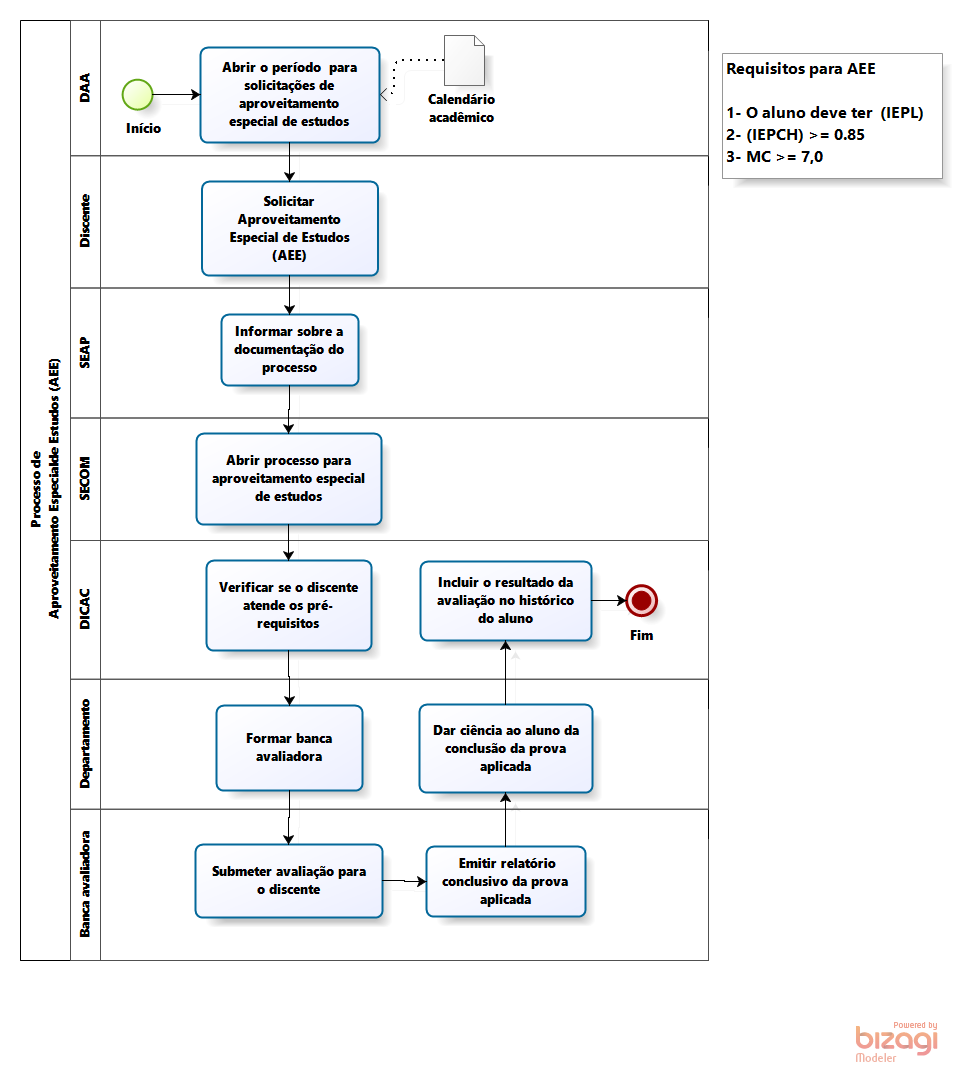
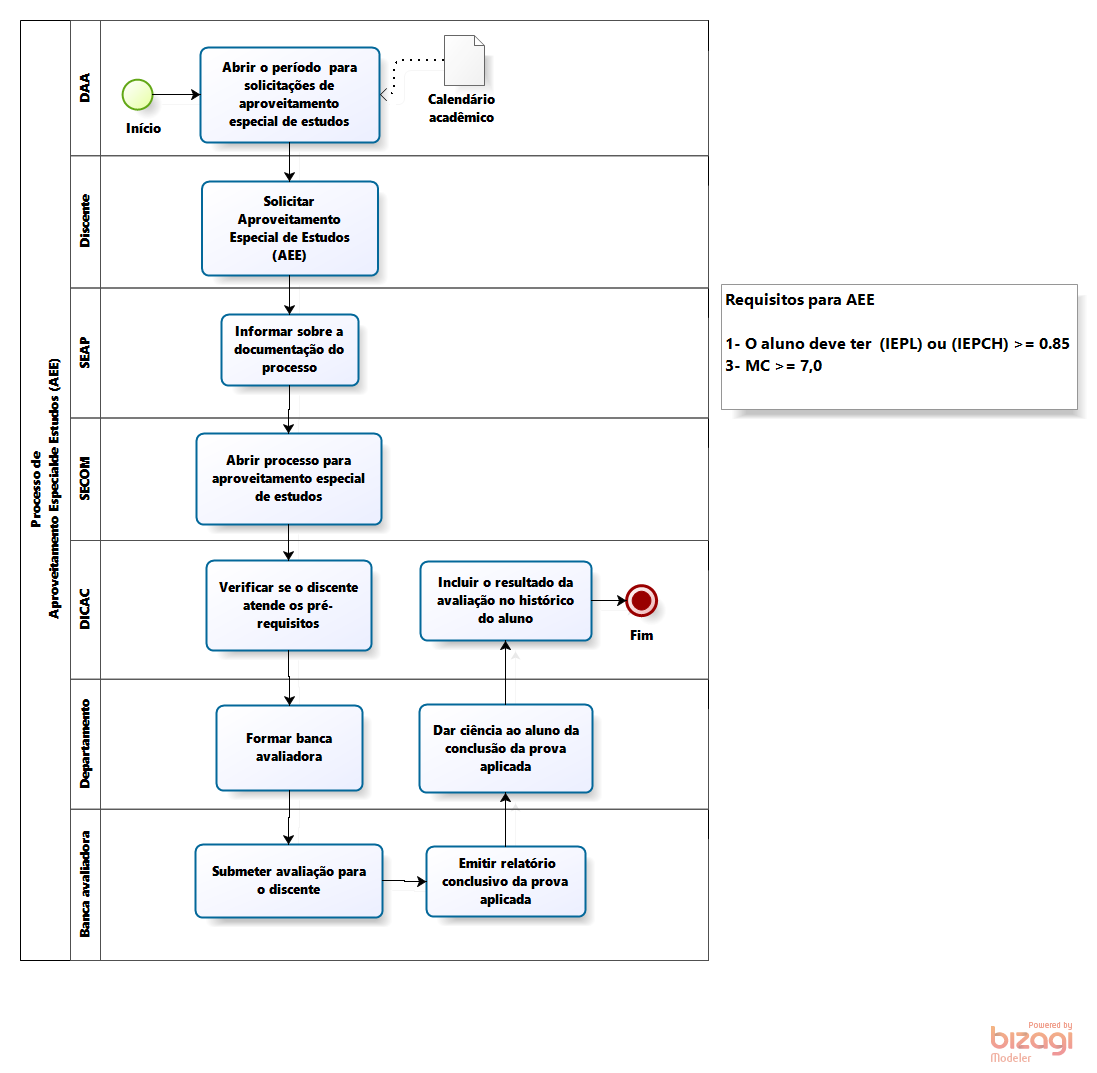
publicação de AEE modificadas

diff --git a/Publicações do Padrão Bizagi/Aproveitamento Especial de Estudos (AEE)/libs/js/json/configuration.json.js b/Publicações do Padrão Bizagi/Aproveitamento Especial de Estudos (AEE)/libs/js/json/configuration.json.js
@@ -1,1 +1,1 @@
-Bizagi.AppModel = {"personalized":false,"userLogoName":"\\libs\\img\\biz-ex-logo.png","bizagiUrl":"http://www.bizagi.com","productName":"Bizagi Process Modeler","modelName":"Aproveitamento Especial de Estudos (AEE)","publishDate":"29/02/2020 13:38:24","pages":[{"id":"125e832a-3d17-423e-bb57-0111de79cfe2","name":"Processo de  Aproveitamento Especial de Estudos (AEE)","version":"1.0","author":"Emeson","image":"files\\diagrams\\Processo_de__Aproveitamento_Especial_de_Estudos_AEE.png","isSubprocessPage":false,"elements":[{"id":"d7220e4f-3f43-4527-ae42-fc518daa5a07","name":"Processo de\n Aproveitamento Especialde Estudos (AEE)","elementImage":"files\\bpmnElements\\Participant.png","imageBounds":{"points":[{"x":20.0,"y":20.0}],"radius":0.0,"height":940.0,"width":50.0,"shape":"rect"},"elementType":"Participant","pageElements":[{"id":"61fa1f97-9267-444e-af1a-dcb147c0df2b","name":"Calendário acadêmico","elementImage":"files\\bpmnElements\\DataObject.png","imageBounds":{"points":[{"x":444.0,"y":35.0}],"radius":0.0,"height":50.0,"width":40.0,"shape":"rect"},"elementType":"DataObject","properties":[{"name":"Estado","type":"text"}]},{"id":"e9d7452c-cdda-4aba-b6c0-73e78aa169ef","name":"Início","elementImage":"files\\bpmnElements\\NoneStart.png","imageBounds":{"points":[{"x":122.0,"y":79.0}],"radius":15.0,"height":30.0,"width":30.0,"shape":"circle"},"elementType":"NoneStart"},{"id":"f385f1ff-2a86-4a48-9114-9d9e4ccfe905","name":"Solicitar Aproveitamento Especial de Estudos (AEE)","elementImage":"files\\bpmnElements\\AbstractTask.png","imageBounds":{"points":[{"x":201.5,"y":181.0}],"radius":0.0,"height":94.0,"width":176.0,"shape":"rect"},"elementType":"AbstractTask","properties":[]},{"id":"ba57b8b1-8c9e-4a0c-83d6-e49375312a78","name":"Abrir processo para aproveitamento especial de estudos","elementImage":"files\\bpmnElements\\AbstractTask.png","imageBounds":{"points":[{"x":196.0,"y":433.0}],"radius":0.0,"height":91.0,"width":185.0,"shape":"rect"},"elementType":"AbstractTask","properties":[]},{"id":"a8163bc1-293b-420e-8b01-7e1a551eac00","name":"Verificar se o discente atende os pré-requisitos","elementImage":"files\\bpmnElements\\AbstractTask.png","imageBounds":{"points":[{"x":206.0,"y":560.0}],"radius":0.0,"height":90.0,"width":165.0,"shape":"rect"},"elementType":"AbstractTask","properties":[]},{"id":"fb591a23-4eb8-4b19-8bdb-dfb80334e690","name":"Formar banca avaliadora","elementImage":"files\\bpmnElements\\AbstractTask.png","imageBounds":{"points":[{"x":216.0,"y":705.0}],"radius":0.0,"height":85.0,"width":146.0,"shape":"rect"},"elementType":"AbstractTask","properties":[]},{"id":"b2c32a35-ff1c-434b-9eb8-6c43d189ad4a","name":"Submeter avaliação para o discente","elementImage":"files\\bpmnElements\\AbstractTask.png","imageBounds":{"points":[{"x":195.0,"y":844.0}],"radius":0.0,"height":73.0,"width":187.0,"shape":"rect"},"elementType":"AbstractTask","properties":[]},{"id":"6bc7b649-8dc4-4257-a06c-83d3b10a0ce6","name":"Dar ciência ao aluno da conclusão da prova aplicada","elementImage":"files\\bpmnElements\\AbstractTask.png","imageBounds":{"points":[{"x":419.0,"y":704.0}],"radius":0.0,"height":88.0,"width":173.0,"shape":"rect"},"elementType":"AbstractTask","properties":[]},{"id":"ba35f286-3df1-4b9f-a7bf-5dbe3dae871a","name":"Incluir o resultado da avaliação no histórico do aluno","elementImage":"files\\bpmnElements\\AbstractTask.png","imageBounds":{"points":[{"x":420.0,"y":561.0}],"radius":0.0,"height":79.0,"width":171.0,"shape":"rect"},"elementType":"AbstractTask","properties":[]},{"id":"83f2db26-2773-43f6-b2bb-94d589b303da","name":"Fim","elementImage":"files\\bpmnElements\\TerminateEnd.png","imageBounds":{"points":[{"x":626.0,"y":585.0}],"radius":15.0,"height":30.0,"width":30.0,"shape":"circle"},"elementType":"TerminateEnd","properties":[]},{"id":"5140a120-ac12-45e5-a2d2-828e4487ddb5","name":"Abrir o período  para solicitações de  aproveitamento  especial de estudos","elementImage":"files\\bpmnElements\\AbstractTask.png","imageBounds":{"points":[{"x":200.0,"y":47.0}],"radius":0.0,"height":95.0,"width":179.0,"shape":"rect"},"elementType":"AbstractTask","properties":[]},{"id":"c7a2d8f7-df18-4e64-84b1-d8cea053bb67","name":" Emitir relatório conclusivo da prova aplicada","elementImage":"files\\bpmnElements\\AbstractTask.png","imageBounds":{"points":[{"x":426.0,"y":846.0}],"radius":0.0,"height":70.0,"width":159.0,"shape":"rect"},"elementType":"AbstractTask","properties":[]},{"id":"7c06772e-dd6b-4ee6-b49c-a9913ff6b20e","name":"Informar sobre a documentação do processo ","elementImage":"files\\bpmnElements\\AbstractTask.png","imageBounds":{"points":[{"x":221.0,"y":314.0}],"radius":0.0,"height":71.0,"width":137.0,"shape":"rect"},"elementType":"AbstractTask","properties":[]},{"id":"addd9075-bd68-48a4-bfc6-fd6ff8379f02","name":"DAA","elementImage":"files\\bpmnElements\\Lane.png","imageBounds":{"points":[{"x":70.0,"y":20.0}],"radius":0.0,"height":135.2,"width":30.0,"shape":"rect"},"elementType":"Lane"},{"id":"ef081c37-c4c1-45d0-881b-e2a4f498ee21","name":"Discente","elementImage":"files\\bpmnElements\\Lane.png","imageBounds":{"points":[{"x":70.0,"y":155.2}],"radius":0.0,"height":132.2,"width":30.0,"shape":"rect"},"elementType":"Lane"},{"id":"69fd035d-ef0f-41aa-b6c2-025573f3ac7a","name":"SEAP","elementImage":"files\\bpmnElements\\Lane.png","imageBounds":{"points":[{"x":70.0,"y":287.4}],"radius":0.0,"height":130.0,"width":30.0,"shape":"rect"},"elementType":"Lane"},{"id":"55a896e1-e415-490d-874c-1565ed5a9eb5","name":"SECOM","elementImage":"files\\bpmnElements\\Lane.png","imageBounds":{"points":[{"x":70.0,"y":417.4}],"radius":0.0,"height":122.5,"width":30.0,"shape":"rect"},"elementType":"Lane"},{"id":"5c18ace9-82aa-4ba0-a0e2-5297b4fba1de","name":"DICAC","elementImage":"files\\bpmnElements\\Lane.png","imageBounds":{"points":[{"x":70.0,"y":539.9}],"radius":0.0,"height":138.7,"width":30.0,"shape":"rect"},"elementType":"Lane"},{"id":"6e2c61ef-821c-4aea-afcc-36b300a025f5","name":"Departamento","elementImage":"files\\bpmnElements\\Lane.png","imageBounds":{"points":[{"x":70.0,"y":678.600037}],"radius":0.0,"height":130.0,"width":30.0,"shape":"rect"},"elementType":"Lane"},{"id":"dfc61933-b509-4126-a6c7-aa9738823f7e","name":"Banca avaliadora","elementImage":"files\\bpmnElements\\Lane.png","imageBounds":{"points":[{"x":70.0,"y":808.600037}],"radius":0.0,"height":151.399963,"width":30.0,"shape":"rect"},"elementType":"Lane"}]}]}],"texts":{"tableOfContents":"Índice","pageNumber":"Página","pageNumberLabelOf":"de","version":"Versão","author":"Autor","description":"Descrição","mainPool":"Processo principal","mainPoolDescription":"Processo principal Descrição","processDiagrams":"Processar os Diagramas","processElements":"Elementos do processo","elements":"Elementos do processo","defaultElementName":"Elemento","performers":"Executantes","connectors":"Conectores","connector":"Conector","home":"Principal","search":"Pesquisar","goToParentProcess":"<< Ir para Matriz","visitBizagi":"Visite bizagi.com","contains":"Contém {0} subprocessos","showAll":"Show all","fullScreen":"Tela inteira","zoomIn":"Ampliar","zoomOut":"Reduzir","close":"Fechar","menu":"Menu: ","errorPage":"Erro ao visualizar a página","process":"Proceso","subProcess":"Subprocessos publicados","contain":"Contém","checkAttributes":"Ver atributos","checkOverview":"Ver resumo","unavailableResource":"O recurso não está disponível","localResource":"O recurso pode ser acessado localmente","performer":"Executor","linktoimage":"Link para a  imagem","presentationAction":"Ações de apresentação","searchGlobal":"Busca todos","searchLocal":"Busca neste processo","searchResults":"Nenhum resultado encontrado","titlePage":"Start","emptyElement":"Este elemento ainda não foi documentado","unsupported":"Seu navegador não suporta conteúdo exibido por esta página. <br> Recomendamos que você atualizar o seu navegador.","details":"Detalhes","expand":"Expandir","mainPoolProperties":"Propriedades do Processo principal","cannotVisualize":"The page cannot be displayed","resourceNotFound":"The requested resource was not found:"},"searchMap":[{"containerId":"125e832a-3d17-423e-bb57-0111de79cfe2","containerName":"Processo de  Aproveitamento Especial de Estudos (AEE)","isSubprocess":false,"elements":[{"id":"0c2dd4b9-0787-4963-8cd6-24b4f51d7496"},{"id":"d7220e4f-3f43-4527-ae42-fc518daa5a07","value":"Processo de\n Aproveitamento Especialde Estudos (AEE)"},{"id":"addd9075-bd68-48a4-bfc6-fd6ff8379f02","value":"DAA"},{"id":"ef081c37-c4c1-45d0-881b-e2a4f498ee21","value":"Discente"},{"id":"69fd035d-ef0f-41aa-b6c2-025573f3ac7a","value":"SEAP"},{"id":"55a896e1-e415-490d-874c-1565ed5a9eb5","value":"SECOM"},{"id":"5c18ace9-82aa-4ba0-a0e2-5297b4fba1de","value":"DICAC"},{"id":"6e2c61ef-821c-4aea-afcc-36b300a025f5","value":"Departamento"},{"id":"dfc61933-b509-4126-a6c7-aa9738823f7e","value":"Banca avaliadora"},{"id":"61fa1f97-9267-444e-af1a-dcb147c0df2b","value":"Calendário acadêmico"},{"id":"e9d7452c-cdda-4aba-b6c0-73e78aa169ef","value":"Início"},{"id":"f385f1ff-2a86-4a48-9114-9d9e4ccfe905","value":"Solicitar Aproveitamento Especial de Estudos (AEE)"},{"id":"ba57b8b1-8c9e-4a0c-83d6-e49375312a78","value":"Abrir processo para aproveitamento especial de estudos"},{"id":"a8163bc1-293b-420e-8b01-7e1a551eac00","value":"Verificar se o discente atende os pré-requisitos"},{"id":"fb591a23-4eb8-4b19-8bdb-dfb80334e690","value":"Formar banca avaliadora"},{"id":"b2c32a35-ff1c-434b-9eb8-6c43d189ad4a","value":"Submeter avaliação para o discente"},{"id":"6bc7b649-8dc4-4257-a06c-83d3b10a0ce6","value":"Dar ciência ao aluno da conclusão da prova aplicada"},{"id":"ba35f286-3df1-4b9f-a7bf-5dbe3dae871a","value":"Incluir o resultado da avaliação no histórico do aluno"},{"id":"83f2db26-2773-43f6-b2bb-94d589b303da","value":"Fim"},{"id":"5140a120-ac12-45e5-a2d2-828e4487ddb5","value":"Abrir o período  para solicitações de  aproveitamento  especial de estudos"},{"id":"c7a2d8f7-df18-4e64-84b1-d8cea053bb67","value":" Emitir relatório conclusivo da prova aplicada"},{"id":"7c06772e-dd6b-4ee6-b49c-a9913ff6b20e","value":"Informar sobre a documentação do processo "},{"id":"ce34dabc-2edd-4c15-8669-3e58eef2d4e6"}]}]}
+Bizagi.AppModel = {"personalized":false,"userLogoName":"\\libs\\img\\biz-ex-logo.png","bizagiUrl":"http://www.bizagi.com","productName":"Bizagi Process Modeler","modelName":"Aproveitamento Especial de Estudos (AEE)","publishDate":"26/03/2020 17:34:02","pages":[{"id":"125e832a-3d17-423e-bb57-0111de79cfe2","name":"Processo de  Aproveitamento Especial de Estudos (AEE)","version":"1.0","author":"Emeson","image":"files\\diagrams\\Processo_de__Aproveitamento_Especial_de_Estudos_AEE.png","isSubprocessPage":false,"elements":[{"id":"d7220e4f-3f43-4527-ae42-fc518daa5a07","name":"Processo de\n Aproveitamento Especialde Estudos (AEE)","elementImage":"files\\bpmnElements\\Participant.png","imageBounds":{"points":[{"x":20.0,"y":20.0}],"radius":0.0,"height":940.0,"width":50.0,"shape":"rect"},"elementType":"Participant","pageElements":[{"id":"61fa1f97-9267-444e-af1a-dcb147c0df2b","name":"Calendário acadêmico","elementImage":"files\\bpmnElements\\DataObject.png","imageBounds":{"points":[{"x":444.0,"y":35.0}],"radius":0.0,"height":50.0,"width":40.0,"shape":"rect"},"elementType":"DataObject","properties":[{"name":"Estado","type":"text"}]},{"id":"e9d7452c-cdda-4aba-b6c0-73e78aa169ef","name":"Início","elementImage":"files\\bpmnElements\\NoneStart.png","imageBounds":{"points":[{"x":122.0,"y":79.0}],"radius":15.0,"height":30.0,"width":30.0,"shape":"circle"},"elementType":"NoneStart"},{"id":"f385f1ff-2a86-4a48-9114-9d9e4ccfe905","name":"Solicitar Aproveitamento Especial de Estudos (AEE)","elementImage":"files\\bpmnElements\\AbstractTask.png","imageBounds":{"points":[{"x":201.5,"y":181.0}],"radius":0.0,"height":94.0,"width":176.0,"shape":"rect"},"elementType":"AbstractTask","properties":[]},{"id":"ba57b8b1-8c9e-4a0c-83d6-e49375312a78","name":"Abrir processo para aproveitamento especial de estudos","elementImage":"files\\bpmnElements\\AbstractTask.png","imageBounds":{"points":[{"x":196.0,"y":433.0}],"radius":0.0,"height":91.0,"width":185.0,"shape":"rect"},"elementType":"AbstractTask","properties":[]},{"id":"a8163bc1-293b-420e-8b01-7e1a551eac00","name":"Verificar se o discente atende os pré-requisitos","elementImage":"files\\bpmnElements\\AbstractTask.png","imageBounds":{"points":[{"x":206.0,"y":560.0}],"radius":0.0,"height":90.0,"width":165.0,"shape":"rect"},"elementType":"AbstractTask","properties":[]},{"id":"fb591a23-4eb8-4b19-8bdb-dfb80334e690","name":"Formar banca avaliadora","elementImage":"files\\bpmnElements\\AbstractTask.png","imageBounds":{"points":[{"x":216.0,"y":705.0}],"radius":0.0,"height":85.0,"width":146.0,"shape":"rect"},"elementType":"AbstractTask","properties":[]},{"id":"b2c32a35-ff1c-434b-9eb8-6c43d189ad4a","name":"Submeter avaliação para o discente","elementImage":"files\\bpmnElements\\AbstractTask.png","imageBounds":{"points":[{"x":195.0,"y":844.0}],"radius":0.0,"height":73.0,"width":187.0,"shape":"rect"},"elementType":"AbstractTask","properties":[]},{"id":"6bc7b649-8dc4-4257-a06c-83d3b10a0ce6","name":"Dar ciência ao aluno da conclusão da prova aplicada","elementImage":"files\\bpmnElements\\AbstractTask.png","imageBounds":{"points":[{"x":419.0,"y":704.0}],"radius":0.0,"height":88.0,"width":173.0,"shape":"rect"},"elementType":"AbstractTask","properties":[]},{"id":"ba35f286-3df1-4b9f-a7bf-5dbe3dae871a","name":"Incluir o resultado da avaliação no histórico do aluno","elementImage":"files\\bpmnElements\\AbstractTask.png","imageBounds":{"points":[{"x":420.0,"y":561.0}],"radius":0.0,"height":79.0,"width":171.0,"shape":"rect"},"elementType":"AbstractTask","properties":[]},{"id":"83f2db26-2773-43f6-b2bb-94d589b303da","name":"Fim","elementImage":"files\\bpmnElements\\TerminateEnd.png","imageBounds":{"points":[{"x":626.0,"y":585.0}],"radius":15.0,"height":30.0,"width":30.0,"shape":"circle"},"elementType":"TerminateEnd","properties":[]},{"id":"5140a120-ac12-45e5-a2d2-828e4487ddb5","name":"Abrir o período  para solicitações de  aproveitamento  especial de estudos","elementImage":"files\\bpmnElements\\AbstractTask.png","imageBounds":{"points":[{"x":200.0,"y":47.0}],"radius":0.0,"height":95.0,"width":179.0,"shape":"rect"},"elementType":"AbstractTask","properties":[]},{"id":"c7a2d8f7-df18-4e64-84b1-d8cea053bb67","name":" Emitir relatório conclusivo da prova aplicada","elementImage":"files\\bpmnElements\\AbstractTask.png","imageBounds":{"points":[{"x":426.0,"y":846.0}],"radius":0.0,"height":70.0,"width":159.0,"shape":"rect"},"elementType":"AbstractTask","properties":[]},{"id":"7c06772e-dd6b-4ee6-b49c-a9913ff6b20e","name":"Informar sobre a documentação do processo ","elementImage":"files\\bpmnElements\\AbstractTask.png","imageBounds":{"points":[{"x":221.0,"y":314.0}],"radius":0.0,"height":71.0,"width":137.0,"shape":"rect"},"elementType":"AbstractTask","properties":[]},{"id":"addd9075-bd68-48a4-bfc6-fd6ff8379f02","name":"DAA","elementImage":"files\\bpmnElements\\Lane.png","imageBounds":{"points":[{"x":70.0,"y":20.0}],"radius":0.0,"height":135.2,"width":30.0,"shape":"rect"},"elementType":"Lane"},{"id":"ef081c37-c4c1-45d0-881b-e2a4f498ee21","name":"Discente","elementImage":"files\\bpmnElements\\Lane.png","imageBounds":{"points":[{"x":70.0,"y":155.2}],"radius":0.0,"height":132.2,"width":30.0,"shape":"rect"},"elementType":"Lane"},{"id":"69fd035d-ef0f-41aa-b6c2-025573f3ac7a","name":"SEAP","elementImage":"files\\bpmnElements\\Lane.png","imageBounds":{"points":[{"x":70.0,"y":287.4}],"radius":0.0,"height":130.0,"width":30.0,"shape":"rect"},"elementType":"Lane"},{"id":"55a896e1-e415-490d-874c-1565ed5a9eb5","name":"SECOM","elementImage":"files\\bpmnElements\\Lane.png","imageBounds":{"points":[{"x":70.0,"y":417.4}],"radius":0.0,"height":122.5,"width":30.0,"shape":"rect"},"elementType":"Lane"},{"id":"5c18ace9-82aa-4ba0-a0e2-5297b4fba1de","name":"DICAC","elementImage":"files\\bpmnElements\\Lane.png","imageBounds":{"points":[{"x":70.0,"y":539.9}],"radius":0.0,"height":138.7,"width":30.0,"shape":"rect"},"elementType":"Lane"},{"id":"6e2c61ef-821c-4aea-afcc-36b300a025f5","name":"Departamento","elementImage":"files\\bpmnElements\\Lane.png","imageBounds":{"points":[{"x":70.0,"y":678.600037}],"radius":0.0,"height":130.0,"width":30.0,"shape":"rect"},"elementType":"Lane"},{"id":"dfc61933-b509-4126-a6c7-aa9738823f7e","name":"Banca avaliadora","elementImage":"files\\bpmnElements\\Lane.png","imageBounds":{"points":[{"x":70.0,"y":808.600037}],"radius":0.0,"height":151.399963,"width":30.0,"shape":"rect"},"elementType":"Lane"}]}]}],"texts":{"tableOfContents":"Índice","pageNumber":"Página","pageNumberLabelOf":"de","version":"Versão","author":"Autor","description":"Descrição","mainPool":"Processo principal","mainPoolDescription":"Processo principal Descrição","processDiagrams":"Processar os Diagramas","processElements":"Elementos do processo","elements":"Elementos do processo","defaultElementName":"Elemento","performers":"Executantes","connectors":"Conectores","connector":"Conector","home":"Principal","search":"Pesquisar","goToParentProcess":"<< Ir para Matriz","visitBizagi":"Visite bizagi.com","contains":"Contém {0} subprocessos","showAll":"Show all","fullScreen":"Tela inteira","zoomIn":"Ampliar","zoomOut":"Reduzir","close":"Fechar","menu":"Menu: ","errorPage":"Erro ao visualizar a página","process":"Proceso","subProcess":"Subprocessos publicados","contain":"Contém","checkAttributes":"Ver atributos","checkOverview":"Ver resumo","unavailableResource":"O recurso não está disponível","localResource":"O recurso pode ser acessado localmente","performer":"Executor","linktoimage":"Link para a  imagem","presentationAction":"Ações de apresentação","searchGlobal":"Busca todos","searchLocal":"Busca neste processo","searchResults":"Nenhum resultado encontrado","titlePage":"Start","emptyElement":"Este elemento ainda não foi documentado","unsupported":"Seu navegador não suporta conteúdo exibido por esta página. <br> Recomendamos que você atualizar o seu navegador.","details":"Detalhes","expand":"Expandir","mainPoolProperties":"Propriedades do Processo principal","cannotVisualize":"The page cannot be displayed","resourceNotFound":"The requested resource was not found:"},"searchMap":[{"containerId":"125e832a-3d17-423e-bb57-0111de79cfe2","containerName":"Processo de  Aproveitamento Especial de Estudos (AEE)","isSubprocess":false,"elements":[{"id":"0c2dd4b9-0787-4963-8cd6-24b4f51d7496"},{"id":"d7220e4f-3f43-4527-ae42-fc518daa5a07","value":"Processo de\n Aproveitamento Especialde Estudos (AEE)"},{"id":"addd9075-bd68-48a4-bfc6-fd6ff8379f02","value":"DAA"},{"id":"ef081c37-c4c1-45d0-881b-e2a4f498ee21","value":"Discente"},{"id":"69fd035d-ef0f-41aa-b6c2-025573f3ac7a","value":"SEAP"},{"id":"55a896e1-e415-490d-874c-1565ed5a9eb5","value":"SECOM"},{"id":"5c18ace9-82aa-4ba0-a0e2-5297b4fba1de","value":"DICAC"},{"id":"6e2c61ef-821c-4aea-afcc-36b300a025f5","value":"Departamento"},{"id":"dfc61933-b509-4126-a6c7-aa9738823f7e","value":"Banca avaliadora"},{"id":"61fa1f97-9267-444e-af1a-dcb147c0df2b","value":"Calendário acadêmico"},{"id":"e9d7452c-cdda-4aba-b6c0-73e78aa169ef","value":"Início"},{"id":"f385f1ff-2a86-4a48-9114-9d9e4ccfe905","value":"Solicitar Aproveitamento Especial de Estudos (AEE)"},{"id":"ba57b8b1-8c9e-4a0c-83d6-e49375312a78","value":"Abrir processo para aproveitamento especial de estudos"},{"id":"a8163bc1-293b-420e-8b01-7e1a551eac00","value":"Verificar se o discente atende os pré-requisitos"},{"id":"fb591a23-4eb8-4b19-8bdb-dfb80334e690","value":"Formar banca avaliadora"},{"id":"b2c32a35-ff1c-434b-9eb8-6c43d189ad4a","value":"Submeter avaliação para o discente"},{"id":"6bc7b649-8dc4-4257-a06c-83d3b10a0ce6","value":"Dar ciência ao aluno da conclusão da prova aplicada"},{"id":"ba35f286-3df1-4b9f-a7bf-5dbe3dae871a","value":"Incluir o resultado da avaliação no histórico do aluno"},{"id":"83f2db26-2773-43f6-b2bb-94d589b303da","value":"Fim"},{"id":"5140a120-ac12-45e5-a2d2-828e4487ddb5","value":"Abrir o período  para solicitações de  aproveitamento  especial de estudos"},{"id":"c7a2d8f7-df18-4e64-84b1-d8cea053bb67","value":" Emitir relatório conclusivo da prova aplicada"},{"id":"7c06772e-dd6b-4ee6-b49c-a9913ff6b20e","value":"Informar sobre a documentação do processo "},{"id":"ce34dabc-2edd-4c15-8669-3e58eef2d4e6"}]}]}
